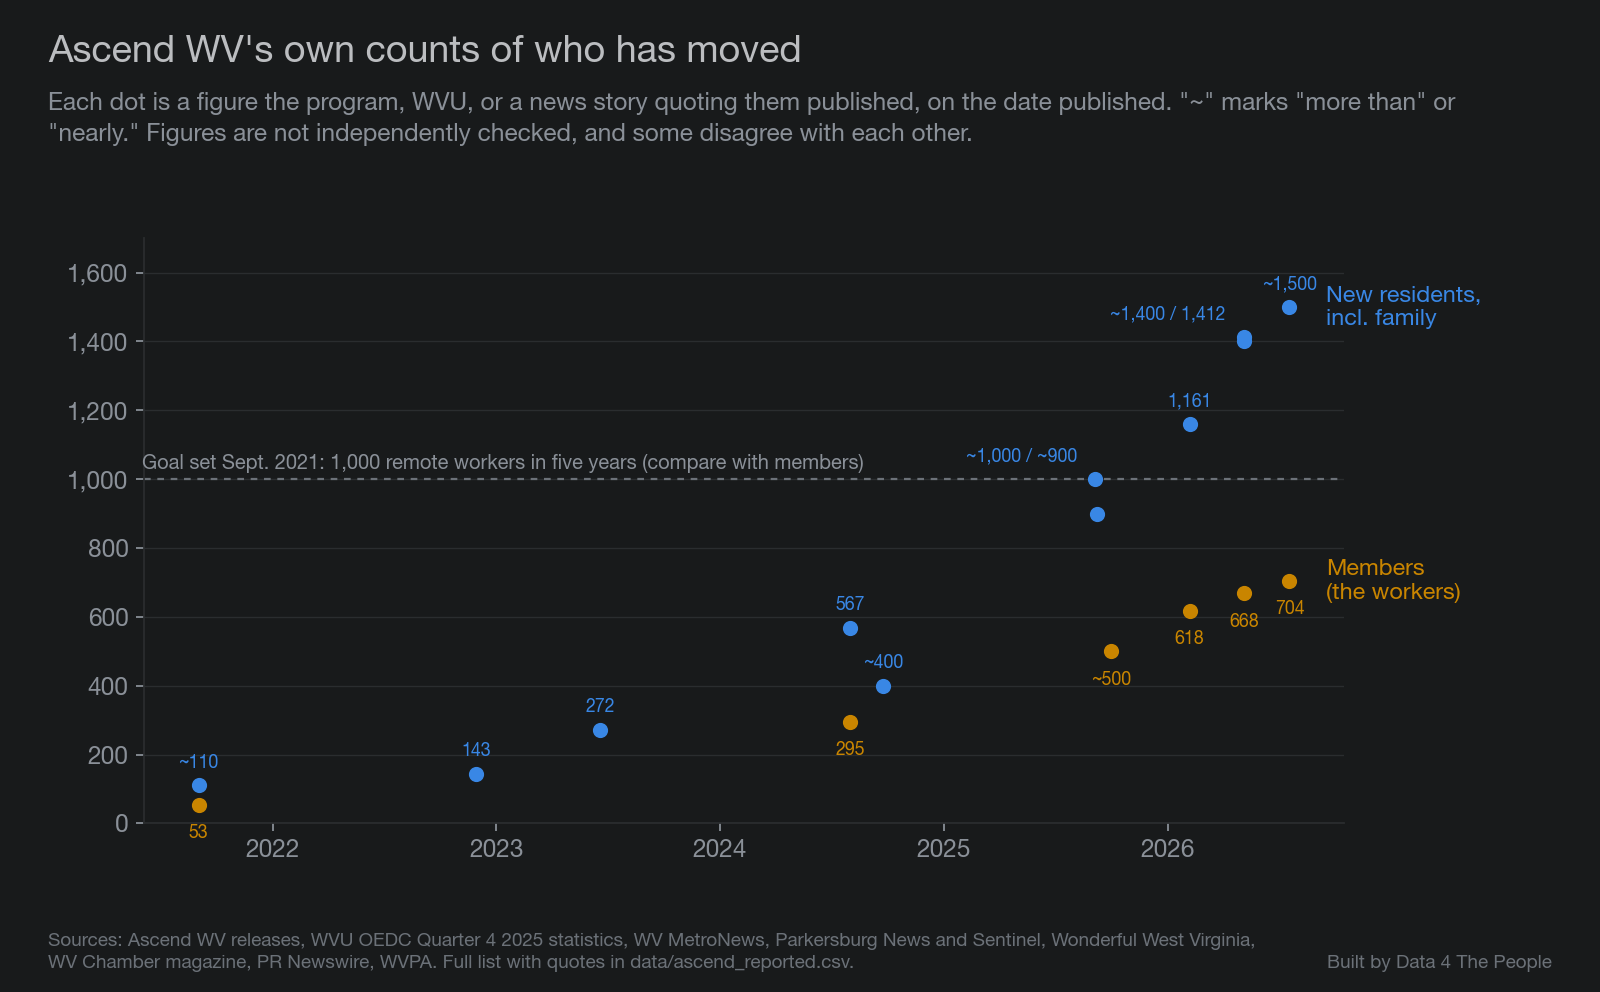
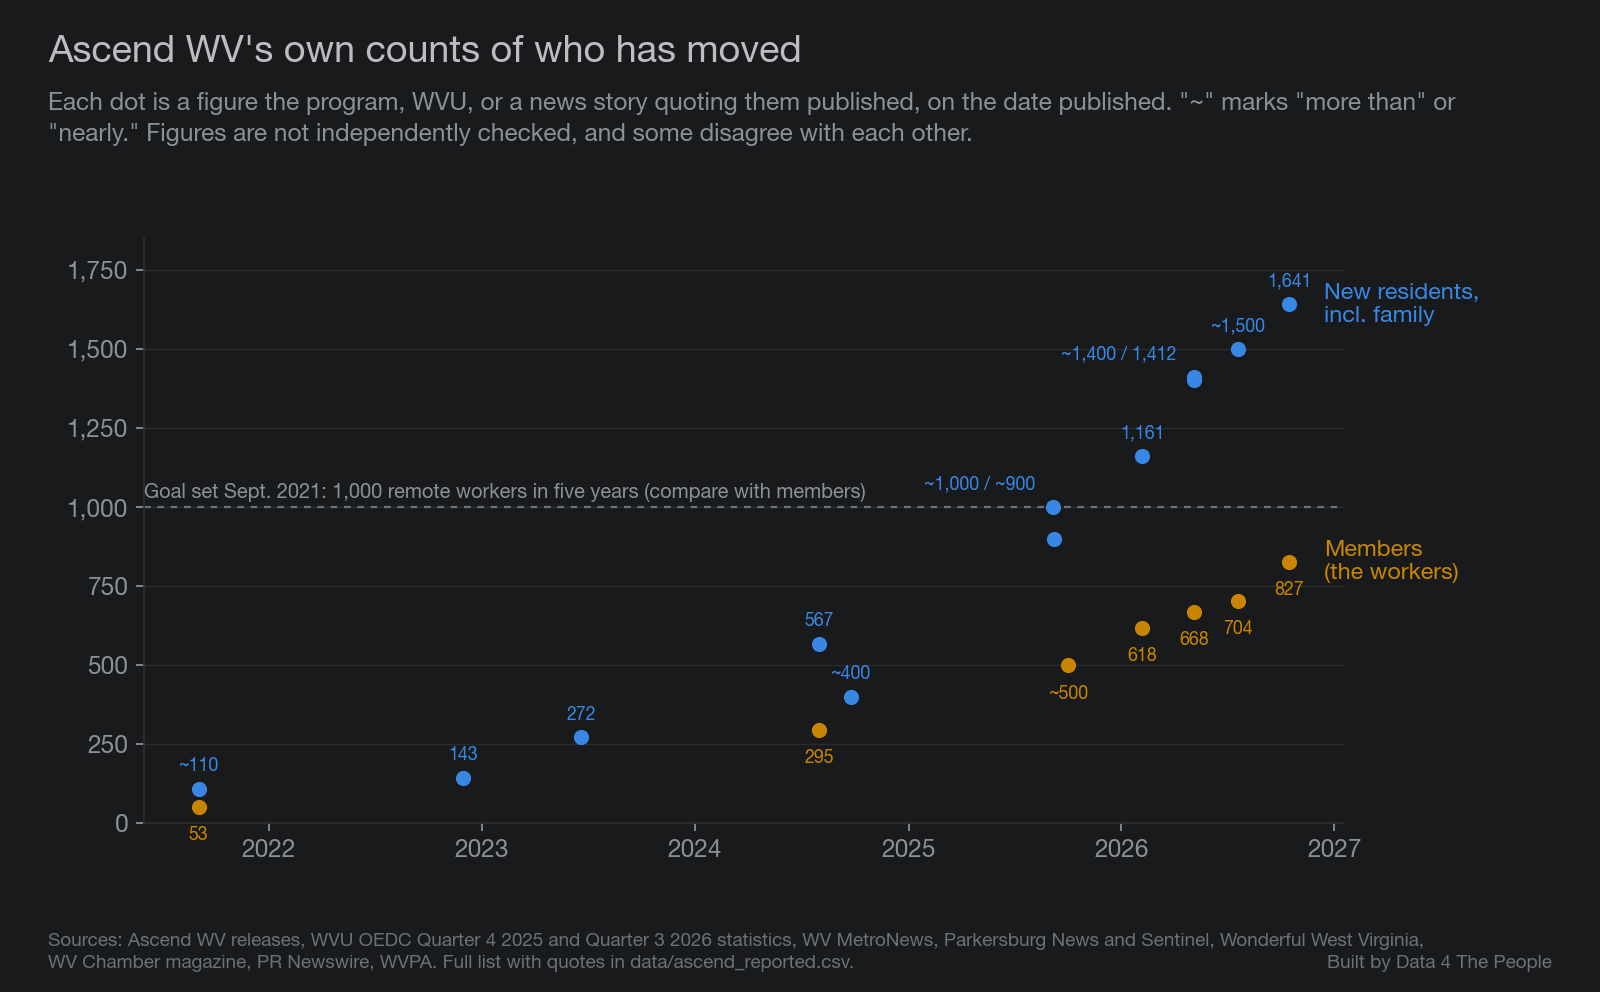
WV_Ascend_Movers: step back 1, WVU Q3 2026 statistics added
Q3 2026 statewide rows in ascend_reported.csv, community and states tables, chart 5 redrawn,
DATASETS.md names Q3 2026 as a primary source and records the community-vs-statewide gaps.
Tie-out 80 of 80. PDF kept in data/raw (not committed).

diff --git a/scripts/99_tieout.py b/scripts/99_tieout.py
@@ -103,6 +103,30 @@ for m, d, v in [("participants", "2026-02-06", 618), ("new_residents_incl_family
     hit = asc[(asc.measure == m) & (asc.publish_date == d)]
     check(f"Ascend {m} {d}", float(hit.value.iloc[0]), v)
 
+# --- Ascend Q3 2026 (WVU OEDC, provided; as of Sept. 30, 2026) ---------------------------------------------
+for m, v in [("participants", 827), ("new_residents_incl_family", 1641), ("completed_two_years", 184),
+             ("retention_pct", 96), ("applications", 94400)]:
+    hit = asc[(asc.measure == m) & (asc.publish_date == "2026-10-16")]
+    check(f"Ascend Q3 2026 {m}", float(hit.value.iloc[0]), v)
+q3 = pd.read_csv(ROOT / "data" / "ascend_q3_2026_communities.csv")
+for col, v in [("members", 809), ("completed_two_years", 185), ("total_incl_household", 1645),
+               ("applications", 95048)]:
+    check(f"Q3 2026 community pages, sum of {col}", int(q3[col].sum()), v)
+for col, v in [("wv_born_pct", 11.3), ("home_purchase_pct", 41.2)]:
+    check(f"Q3 2026 {col} weighted by members", round((q3[col] * q3.members).sum() / q3.members.sum(), 1), v)
+check("Q3 2026 members as % of 1,000 goal", round(827 / 1000 * 100, 1), 82.7)
+check("Q3 2026 residents as % of WV net domestic 2021-2025", round(1641 / sum(raw_dom[y] for y in range(2021, 2026)) * 100, 1), 9.5)
+check("Q3 2026 members as % of applications", round(827 / 94400 * 100, 1), 0.9)
+sts = pd.read_csv(ROOT / "data" / "ascend_q3_2026_states.csv")
+sw = sts[sts.scope == "Statewide"]
+check("Q3 2026 statewide states table, sum of members", int(sw.members.sum()), 819)
+nb = sw[sw.state.isin(["Virginia", "Maryland", "Pennsylvania", "Ohio", "Kentucky"])].members.sum()
+check("Q3 2026 % of U.S. members from the five neighboring states", round(nb / sw.members.sum() * 100, 1), 35.8)
+ep = sts[sts.scope == "Eastern Panhandle"]
+check("Q3 2026 Eastern Panhandle states table, sum (212 members; p.5 also lists Chile, UK, Canada)", int(ep.members.sum()), 209)
+check("Q3 2026 % of Eastern Panhandle members from VA, MD, DC",
+      round(ep[ep.state.isin(["Virginia", "Maryland", "Washington DC"])].members.sum() / 212 * 100, 1), 47.6)
+
 # --- Words: every label and sourced claim on the built output -------------------------------------------
 WORDS = [
     ("Chart 1 marker 'First Ascend class of 53 announced Sept. 2021'", "supported",
@@ -125,6 +149,12 @@ WORDS = [
      "WVU Q4 2025 statistics p.2, read by the research agent and confirmed by the independent tie-out"),
     ("Average salary $94,617", "supported as Morgantown Area only",
      "WVU Q4 2025 p.3; corrected from statewide after the independent tie-out"),
+    ("Chart 5 sources line names WVU OEDC Quarter 3 2026 statistics", "supported",
+     "Five Q3 2026 rows in data/ascend_reported.csv, each with page and quote"),
+    ("Q3 2026 community pages sum to the statewide page", "not supported",
+     "Members 809 vs 827, completed 185 vs 184, household 1,645 vs 1,641; recorded in DATASETS.md"),
+    ("Q3 2026 survey figures (income, home price) are program totals", "not supported",
+     "p.9 says 495 respondents, 'rolling and not comprehensive'; not used as totals"),
     ("Ascend Heroes incentive", "conflict recorded",
      "Ascend release says $12,000; WV MetroNews says $20,000"),
     ("'$580 million' from a 2023 WVU study", "not supported",

diff --git a/scripts/03_ascend_reported.py b/scripts/03_ascend_reported.py
@@ -18,8 +18,12 @@ def main():
         for k in REQUIRED:
             if not r[k]:
                 raise SystemExit(f"line {i}: {k} is empty")
-        if not r["url"].startswith("https://"):
-            raise SystemExit(f"line {i}: url is not https")
+        if r["url"].startswith("provided:"):
+            # a document sent to us directly and not published online; kept in data/raw, not committed
+            if not (ROOT / r["url"][len("provided:"):]).exists():
+                print(f"line {i}: note, {r['url']} is not on this machine")
+        elif not r["url"].startswith("https://"):
+            raise SystemExit(f"line {i}: url is not https or provided:")
         key = (r["publish_date"], r["measure"], r["value"], r["url"])
         if key in seen:
             raise SystemExit(f"line {i}: duplicate row {key}")
@@ -33,6 +37,21 @@ def main():
         for r in sorted(by[m], key=lambda r: r["publish_date"]):
             print(f"  {r['publish_date']}  {r['value'] or '-':>11}  {r['unit']:<22} {r['source_name']}")
     print(f"\n{len(rows)} rows, {len(by)} measures, all with source and quote")
+    q3_communities(by)
+
+
+def q3_communities(by):
+    """Q3 2026 community pages against the statewide page. Gaps are printed, not fixed."""
+    comm = list(csv.DictReader(open(ROOT / "data" / "ascend_q3_2026_communities.csv")))
+    state = {r["measure"]: float(r["value"]) for m in by.values() for r in m if r["publish_date"] == "2026-10-16"}
+    print("\nQ3 2026: sum of six community pages vs statewide page")
+    for col, meas in [("members", "participants"), ("completed_two_years", "completed_two_years"),
+                      ("total_incl_household", "new_residents_incl_family"), ("applications", "applications")]:
+        tot = sum(int(r[col]) for r in comm)
+        print(f"  {col:<22} communities {tot:>7,}   statewide {state[meas]:>9,.0f}   gap {tot - state[meas]:+,.0f}")
+    m = sum(int(r["members"]) for r in comm)
+    for col in ["wv_born_pct", "home_purchase_pct"]:
+        print(f"  {col} weighted by members: {sum(int(r['members']) * int(r[col]) for r in comm) / m:.1f}")
 
 
 if __name__ == "__main__":

diff --git a/scripts/06_charts.py b/scripts/06_charts.py
@@ -191,12 +191,12 @@ def chart_ascend_reported():
     ax.yaxis.set_major_formatter(lambda v, _: f"{int(v):,}")
     ax.yaxis.grid(True)
     ax.set_axisbelow(True)
-    ax.set_ylim(0, 1700)
+    ax.set_ylim(0, 1850)
     titleblock(fig, "Ascend WV's own counts of who has moved",
                "Each dot is a figure the program, WVU, or a news story quoting them published, on the date "
                "published. \"~\" marks \"more than\" or\n\"nearly.\" Figures are not independently checked, "
                "and some disagree with each other.")
-    credit(fig, "Sources: Ascend WV releases, WVU OEDC Quarter 4 2025 statistics, WV MetroNews, Parkersburg News "
+    credit(fig, "Sources: Ascend WV releases, WVU OEDC Quarter 4 2025 and Quarter 3 2026 statistics, WV MetroNews, Parkersburg News "
                 "and Sentinel, Wonderful West Virginia,\nWV Chamber magazine, PR Newswire, WVPA. Full list with "
                 "quotes in data/ascend_reported.csv.")
     fig.savefig(CHARTS / "05-ascend-reported-counts.png")

diff --git a/DATASETS.md b/DATASETS.md
@@ -244,17 +244,46 @@ words. Checked by `scripts/03_ascend_reported.py` (every row has a source and
 quote; no duplicates). Nothing here is recomputed: there is no public
 participant-level data.
 
-**The one primary statistical source.** WVU OEDC, "Ascend WV Quarter 4
-Statistics," dated February 6, 2026: 618 members, 1,161 people including
-households, 116 members who completed the two-year program, 95.5% retention,
-more than 79,780 applications. It also gives average salaries by area
-(Morgantown Area $94,617; other areas $100,740 and $106,996) but no statewide
-average. Launch dates it gives: Morgantown April 2021, Eastern Panhandle June
+**The primary statistical sources.** Two WVU OEDC quarterly reports.
+
+- "Ascend WV Program Statistics, Quarterly Report Q3 2026," dated October 16,
+  2026, counts as of September 30, 2026. WVU OEDC sent it to Data 4 The People
+  in November 2026; we did not find it published online, so it is kept in
+  `data/raw/wvu/` and not committed. Its URL in `data/ascend_reported.csv` is
+  written `provided:<path>`. Statewide (p.2): 827 members since April 2021,
+  1,641 new residents including household members and 25 babies born during
+  the program, 184 members who completed the two-year program, 96% retention,
+  more than 94,400 applications. Pages 3 to 8 give each community's
+  applications, members, completions, total with household, average salary,
+  share born in West Virginia, and share who bought a home; these are in
+  `data/ascend_q3_2026_communities.csv`. Page 9 gives survey results (average
+  household income, individual income, home price, rent, demographics) from
+  495 respondents; the report calls the survey "rolling and not
+  comprehensive." We do not use page 9 figures as program totals.
+- "Ascend WV Quarter 4 Statistics," dated February 6, 2026: 618 members,
+  1,161 people including households, 116 completed, 95.5% retention, more
+  than 79,780 applications, Morgantown Area salary $94,617.
+
+Launch dates (both reports): Morgantown April 2021, Eastern Panhandle June
 2022, Greenbrier Valley September 2022, Greater Elkins November 2022, New River
 Gorge June 2023, Charleston September 2025.
 
+**Q3 2026 community pages do not add up to the statewide page.** Members: 809
+across the six pages, 827 statewide. Completed: 185 vs 184. With household:
+1,645 vs 1,641. Applications: 95,048 vs "94,400+", so some applicants are
+likely counted in more than one community. The states table on p.2 sums to 819
+members; the other 8 may be members who moved from outside the U.S. (the
+report lists nine countries), but the report does not say. The Eastern Panhandle states table (p.5) sums
+to 209 of its 212 members, and that page lists Chile, the United Kingdom and
+Canada among the countries members moved from. We use the
+statewide page for statewide figures and the community pages only for
+comparisons between communities. Shares across communities (born in West
+Virginia 11.3%, bought a home 41.2%) are our averages of the community
+percentages weighted by community members; the report gives no statewide value
+for either.
+
 **Definitions and conflicts.**
-- **Retention.** The Q4 2025 report defines it as members in the program at
+- **Retention.** Both quarterly reports define it as members in the program at
   least four months who stayed. No other source defines it. NPR describes 96%
   as remaining "after the program's two-year commitment ends"; a 2023 release
   says "in first two years"; a 2026 release says "since its launch." Values
@@ -267,7 +296,8 @@ Gorge June 2023, Charleston September 2025.
 - **Residents counts do not always rise.** August 2024: 295 members plus 272
   family (567); September 2024: "over 400." September 2025: "nearly 1,000" in
   a subheadline and "more than 900" in the body of the same release. Q4 2025:
-  1,161; May 2026: 1,412, with members rising only from 618 to 668.
+  1,161; May 2026: 1,412, with members rising only from 618 to 668. Q3 2026:
+  827 members, 1,641 residents.
 - **Economic impact.** A pre-launch WVU Bureau of Business and Economic
   Research projection of at least $182.6 million (January 2022). In January
   2023 the director said it was too early for a dollar figure. Later: "$500

diff --git a/TIEOUT.md b/TIEOUT.md
@@ -62,12 +62,30 @@ Generated by `scripts/99_tieout.py`. Numbers recomputed from `data/raw/` with pa
 | JobsOhio grant dollars 2021-2025 | 1345075454 | 1345075454 | match |
 | JobsOhio committed jobs 2021-2025 (after removing 10 repeated promises) | 83124 | 83124 | match |
 | JobsOhio dollars per committed job | 16182 | 16182 | match |
-| Ascend rows with a URL and quote | 51 | 51 | match |
+| Ascend rows with a URL and quote | 56 | 56 | match |
 | Ascend participants 2026-02-06 | 618.0 | 618 | match |
 | Ascend new_residents_incl_family 2026-02-06 | 1161.0 | 1161 | match |
 | Ascend participants 2026-07-19 | 704.0 | 704 | match |
 | Ascend retention_pct 2026-02-06 | 95.5 | 95.5 | match |
 | Ascend completed_two_years 2026-02-06 | 116.0 | 116 | match |
+| Ascend Q3 2026 participants | 827.0 | 827 | match |
+| Ascend Q3 2026 new_residents_incl_family | 1641.0 | 1641 | match |
+| Ascend Q3 2026 completed_two_years | 184.0 | 184 | match |
+| Ascend Q3 2026 retention_pct | 96.0 | 96 | match |
+| Ascend Q3 2026 applications | 94400.0 | 94400 | match |
+| Q3 2026 community pages, sum of members | 809 | 809 | match |
+| Q3 2026 community pages, sum of completed_two_years | 185 | 185 | match |
+| Q3 2026 community pages, sum of total_incl_household | 1645 | 1645 | match |
+| Q3 2026 community pages, sum of applications | 95048 | 95048 | match |
+| Q3 2026 wv_born_pct weighted by members | 11.3 | 11.3 | match |
+| Q3 2026 home_purchase_pct weighted by members | 41.2 | 41.2 | match |
+| Q3 2026 members as % of 1,000 goal | 82.7 | 82.7 | match |
+| Q3 2026 residents as % of WV net domestic 2021-2025 | 9.5 | 9.5 | match |
+| Q3 2026 members as % of applications | 0.9 | 0.9 | match |
+| Q3 2026 statewide states table, sum of members | 819 | 819 | match |
+| Q3 2026 % of U.S. members from the five neighboring states | 35.8 | 35.8 | match |
+| Q3 2026 Eastern Panhandle states table, sum (212 members; p.5 also lists Chile, UK, Canada) | 209 | 209 | match |
+| Q3 2026 % of Eastern Panhandle members from VA, MD, DC | 47.6 | 47.6 | match |
 
 ## Words
 
@@ -84,12 +102,15 @@ Generated by `scripts/99_tieout.py`. Numbers recomputed from `data/raw/` with pa
 | Chart 5 every dot | supported | each row in data/ascend_reported.csv carries URL and quote |
 | Retention defined as 'at least four months and stayed' | supported | WVU Q4 2025 statistics p.2, read by the research agent and confirmed by the independent tie-out |
 | Average salary $94,617 | supported as Morgantown Area only | WVU Q4 2025 p.3; corrected from statewide after the independent tie-out |
+| Chart 5 sources line names WVU OEDC Quarter 3 2026 statistics | supported | Five Q3 2026 rows in data/ascend_reported.csv, each with page and quote |
+| Q3 2026 community pages sum to the statewide page | not supported | Members 809 vs 827, completed 185 vs 184, household 1,645 vs 1,641; recorded in DATASETS.md |
+| Q3 2026 survey figures (income, home price) are program totals | not supported | p.9 says 495 respondents, 'rolling and not comprehensive'; not used as totals |
 | Ascend Heroes incentive | conflict recorded | Ascend release says $12,000; WV MetroNews says $20,000 |
 | '$580 million' from a 2023 WVU study | not supported | Only source is NPR; no study document found |
 | Bartik: 58-70% would not have moved; $36k vs $218k per job | supported (summary only) | Upjohn two-page summary; full report not opened |
 | JobsOhio figures are commitments, not verified jobs | supported | JobsOhioSmallBiz DATASETS.md, monthly executed reports section |
 
-**62 of 62 numbers match.**
+**80 of 80 numbers match.**
 
 ## Independent tie-out (fresh agent, November 14, 2026)
 

diff --git a/STATUS.md b/STATUS.md
@@ -6,14 +6,14 @@ Process: ~/.claude/d4tp-process/PROCESS.md
 ## Current
 
 Post: none yet
-Step: 2a
-Since: 2026-11-14
+Step: 1
+Since: 2026-11-17
 
 ## Steps
 
 | Step | What | Confirmed | Notes |
 |---|---|---|---|
-| 1  | Exploration and analysis | 2026-11-14 | 62 of 62 tie-out; independent tie-out fixes in |
+| 1  | Exploration and analysis | | reopened 2026-11-17 for WVU Q3 2026 statistics |
 | 2a | Draft with brackets resolved | | |
 | 2b | Eric's edit, Claude's look-over | | |
 | 2c | Slice markup | | |
@@ -27,9 +27,10 @@ Since: 2026-11-14
 
 ## Stale
 
-None.
+None. Step 1 reopened before any 2a work; no later step had been confirmed.
 
 ## Log
 
 - 2026-11-14 Step 1 opened. Topic: Ascend West Virginia, the program that pays remote workers to move to the state, as a Data 4 Thought contrast to JobsOhio's grants to large companies, plus other states and cities that have paid people to move. Initial scope in SCOPE.md.
 - 2026-11-14 Step 1 confirmed. Data request sent to WVU (Twilley out until Nov. 23; Eric forwarding to Emily Huguenin), replies asked for by Nov. 18. Planned publish date November 19, 2026. Step 2a open, slug pending.
+- 2026-11-17 Step 1 reopened (back 1): WVU OEDC sent its Q3 2026 statistics (as of Sept. 30, 2026). Adding them, redrawing chart 5, re-running both tie-outs.
